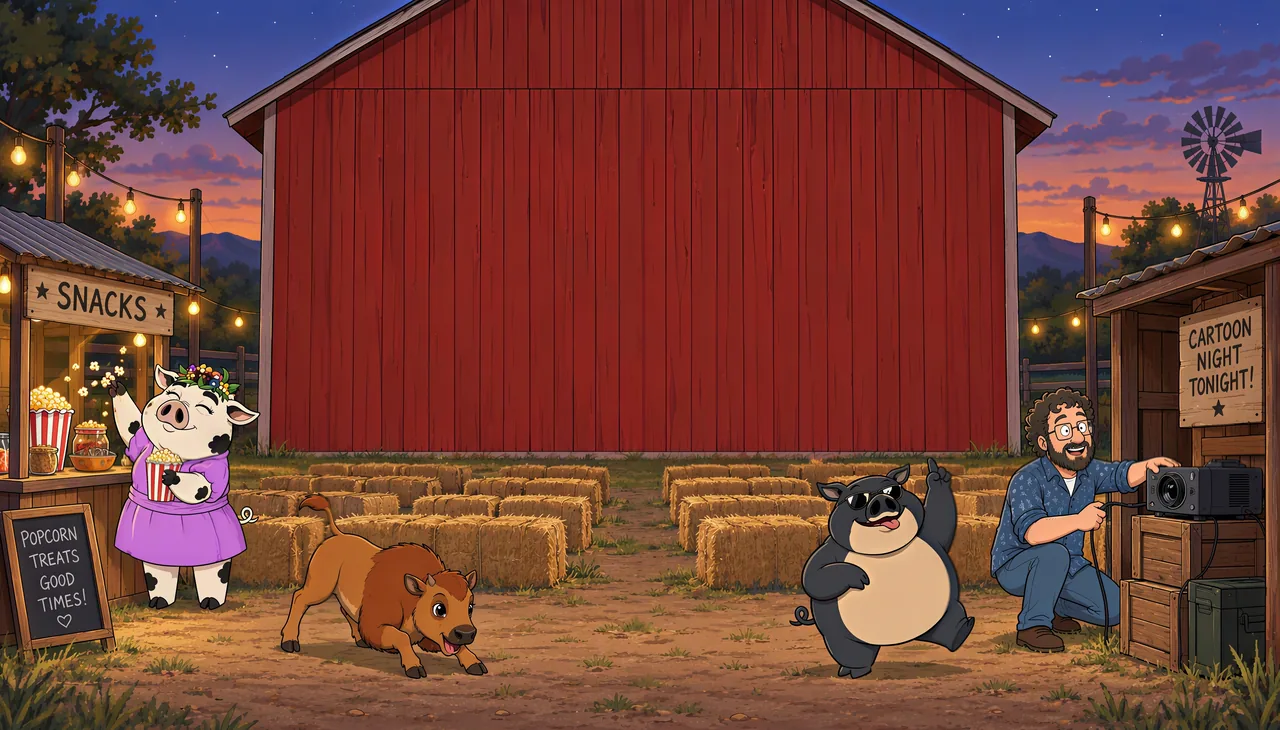
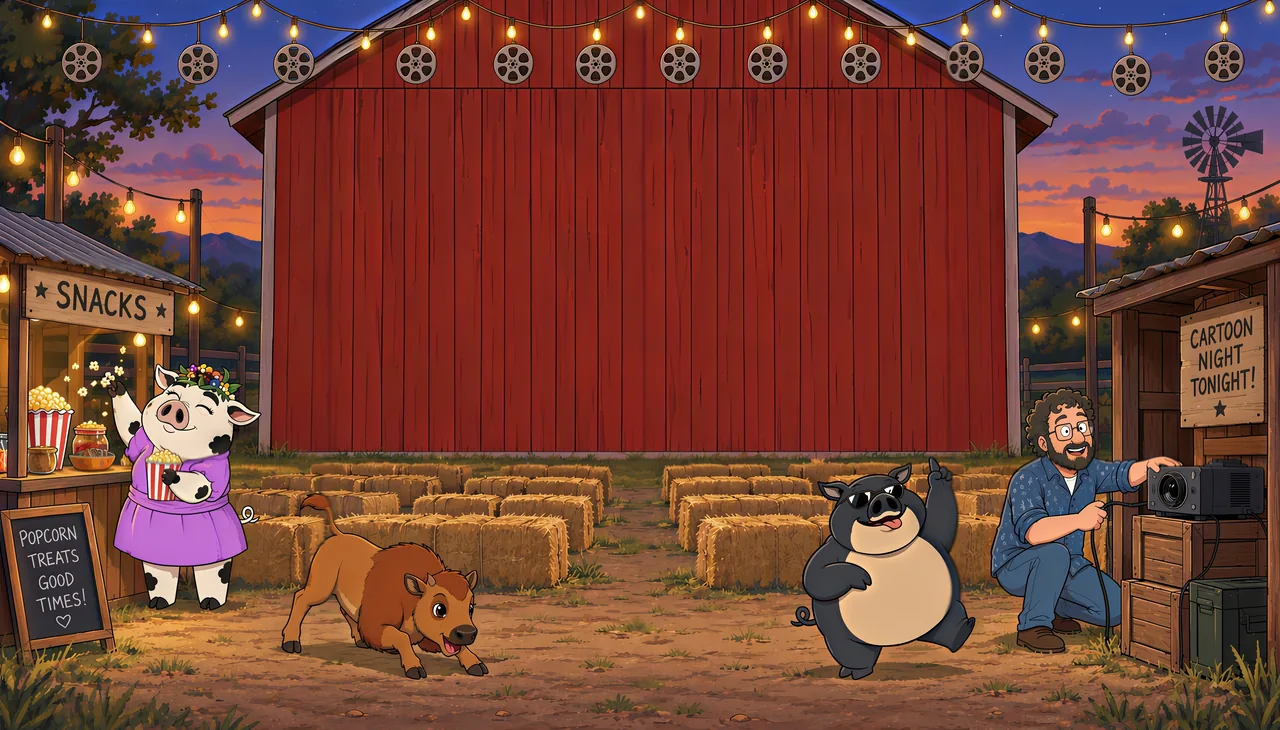
art(cartoons): barn-reels background (13 reels on fairy lights); process-art.py measures seam and reels
Re-encodes cartoons/art/bg-{1280,1920,2560,3840}.webp from barn-reels-4k.jpeg.
process-art.py takes step names (bg, props, generics, reels) and loads rembg
only for the cut-out steps; 'reels' prints the barn seam and the 13 reel
centres/radii used by DEFAULT_LAYOUT.

diff --git a/tests/tools/process-art.py b/tests/tools/process-art.py
@@ -1,22 +1,23 @@
 """Cut out and encode the Tripo Studio renders for the cartoons page.
 
-Usage: python tests/tools/process-art.py        (from the repo root)
-Needs: rembg (isnet-general-use model under ~/.rembg/models/isnet-general-use), Pillow, numpy, scipy.
+Usage: python tests/tools/process-art.py [bg|props|generics ...]   (from the repo root; no args = all)
+Needs: Pillow (bg); rembg (isnet-general-use model under ~/.rembg/models/isnet-general-use), Pillow, numpy, scipy.
 Sources live outside the repo (override with CARTOONS_ART_SRC).
+`reels` prints the barn seam and the 13 painted reels (centre, radius) of the master, in px and % of the scene,
+for DEFAULT_LAYOUT in cartoons/drivein-core.js.
 Outputs:
-  cartoons/art/bg-{1280,1920,2560,3840}.webp       barn background, several widths
-  cartoons/props/<id>.webp                         alpha cut-outs (episodes, crate, reel), cropped, max 640 px
+  cartoons/art/bg-{1280,1920,2560,3840}.webp       barn background (barn-reels-4k.jpeg: reels on fairy lights), several widths
+  cartoons/props/<id>.webp                         alpha cut-outs (episodes, reel), cropped, max 640 px
   cartoons/props/generic-1..12.webp                seat-savers split from generics-sheet.png (row-major)
 """
 import os
+import sys
 from pathlib import Path
 os.environ.setdefault('U2NET_HOME', str(Path.home() / '.rembg' / 'models' / 'isnet-general-use'))  # local model; avoids a download
 import numpy as np
 from PIL import Image
-from rembg import remove as _remove, new_session
-from scipy import ndimage
 
-SESSION = new_session('isnet-general-use')
+SESSION = None  # rembg is only loaded for the cut-out steps
 ROOT = Path(__file__).resolve().parents[2]
 C = ROOT / 'cartoons'
 SRC = Path(os.environ.get('CARTOONS_ART_SRC', r'C:\Users\loopy\Nikeverse-cartoons\outputs\nikepig-website-cartoons-art-src'))
@@ -29,6 +30,10 @@ FILL_HOLES = {'pilot', 'c5'}
 
 def remove(img):
     """rembg alpha on the untouched source colours (rembg blacks out the RGB it thinks is background)."""
+    global SESSION
+    from rembg import remove as _remove, new_session
+    if SESSION is None:
+        SESSION = new_session('isnet-general-use')
     rgb = img.convert('RGB')
     out = rgb.copy()
     out.putalpha(_remove(rgb, session=SESSION, only_mask=True))
@@ -62,13 +67,14 @@ def save_webp(img, out, q, limit_kb=None, alpha=False):
 
 
 def background():
-    bg = Image.open(SRC / 'barn-cinema-bg-B-0936-4k-gflegs.jpeg').convert('RGB')
+    bg = Image.open(SRC / 'barn-reels-4k.jpeg').convert('RGB')
     for w in (1280, 1920, 2560, 3840):
         img = bg.resize((w, round(bg.height * w / bg.width)), Image.LANCZOS)
         save_webp(img, C / f'art/bg-{w}.webp', 82, BG_KB if w <= 1920 else None)
 
 
 def props():
+    from scipy import ndimage
     for src in sorted((SRC / 'props').glob('*.png')):
         if src.stem == 'generics-sheet':
             continue
@@ -83,6 +89,7 @@ def props():
 def generics(cols=4, rows=3, max_side=480):
     """Split the 4x3 seat-saver sheet: connected components of the alpha mask, grouped by grid cell (so the two
     boots stay one prop), numbered row-major as generic-1..12."""
+    from scipy import ndimage
     cut = remove(Image.open(SRC / 'props' / 'generics-sheet.png'))
     a = np.array(cut.getchannel('A'))
     lab, n = ndimage.label(a >= ALPHA_MIN)
@@ -105,7 +112,36 @@ def generics(cols=4, rows=3, max_side=480):
         save_webp(fit(img, max_side), C / 'props' / f'generic-{k + 1}.webp', 85, PROP_KB, alpha=True)
 
 
+def reels():
+    """Reels are warm-grey discs (low saturation, mid-bright) with dark holes in the top band; fill the holes, then
+    take each blob's distance-transform peak as centre and radius (robust where a reel touches the roof trim). The
+    radius excludes the ~3 px dark outline."""
+    from scipy import ndimage
+    rgb = np.asarray(Image.open(SRC / 'barn-reels-4k.jpeg').convert('RGB')).astype(float)
+    H, W = rgb.shape[:2]
+    band = rgb[:450]
+    mx, mn = band.max(-1), band.min(-1)
+    m = ((mx - mn) / np.maximum(mx, 1) < 0.42) & (mx > 115) & (band[..., 0] >= band[..., 2]) & (band[..., 1] > 0.6 * band[..., 0])
+    m = ndimage.binary_opening(ndimage.binary_fill_holes(ndimage.binary_closing(m, iterations=5)), iterations=6)
+    lab, _ = ndimage.label(m)
+    d = ndimage.distance_transform_edt(m)
+    out = []
+    for i in range(1, lab.max() + 1):
+        dd = np.where(lab == i, d, 0)
+        r = dd.max()
+        if r >= 50:
+            ys, xs = np.nonzero(dd >= r - 1)
+            out.append((xs.mean(), ys.mean(), r))
+    out.sort()
+    seam = np.median(np.asarray(Image.open(SRC / 'barn-reels-4k.jpeg').convert('L'))[:, 1150:2950], axis=1)
+    dark = 200 + np.nonzero(seam[200:400] < 40)[0]  # the painted seam line is a few px thick; take its middle
+    y0 = (dark.min() + dark.max()) / 2
+    print(f'seam y {y0:.1f} px = {100 * y0 / H:.3f}%   reels: {len(out)}')
+    for x, y, r in out:
+        print(f'  x {x:7.1f} y {y:6.1f} r {r:5.1f} px   -> x {100 * x / W:.2f}% y {100 * y / H:.2f}% r {100 * r / W:.3f}% of width')
+
+
 if __name__ == '__main__':
-    background()
-    props()
-    generics()
+    steps = {'bg': background, 'props': props, 'generics': generics, 'reels': reels}
+    for name in sys.argv[1:] or ['bg', 'props', 'generics']:
+        steps[name]()
